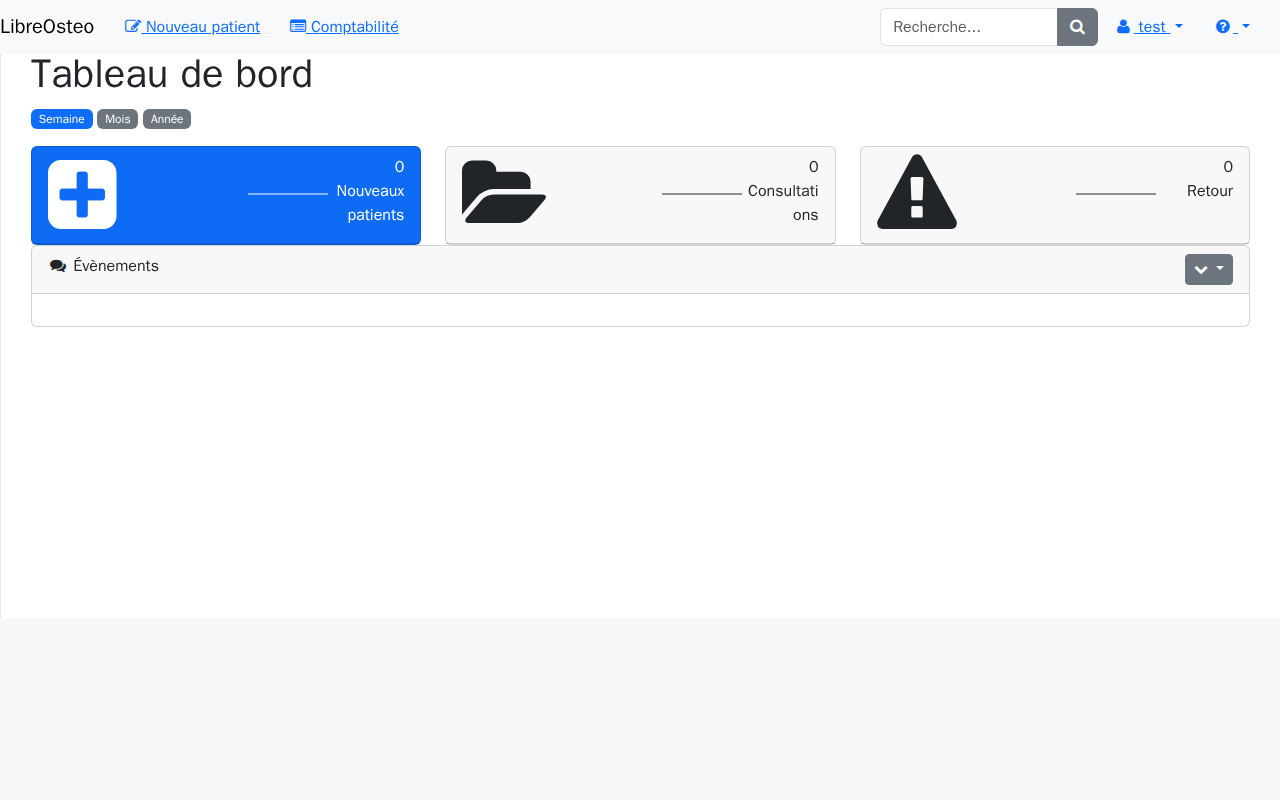
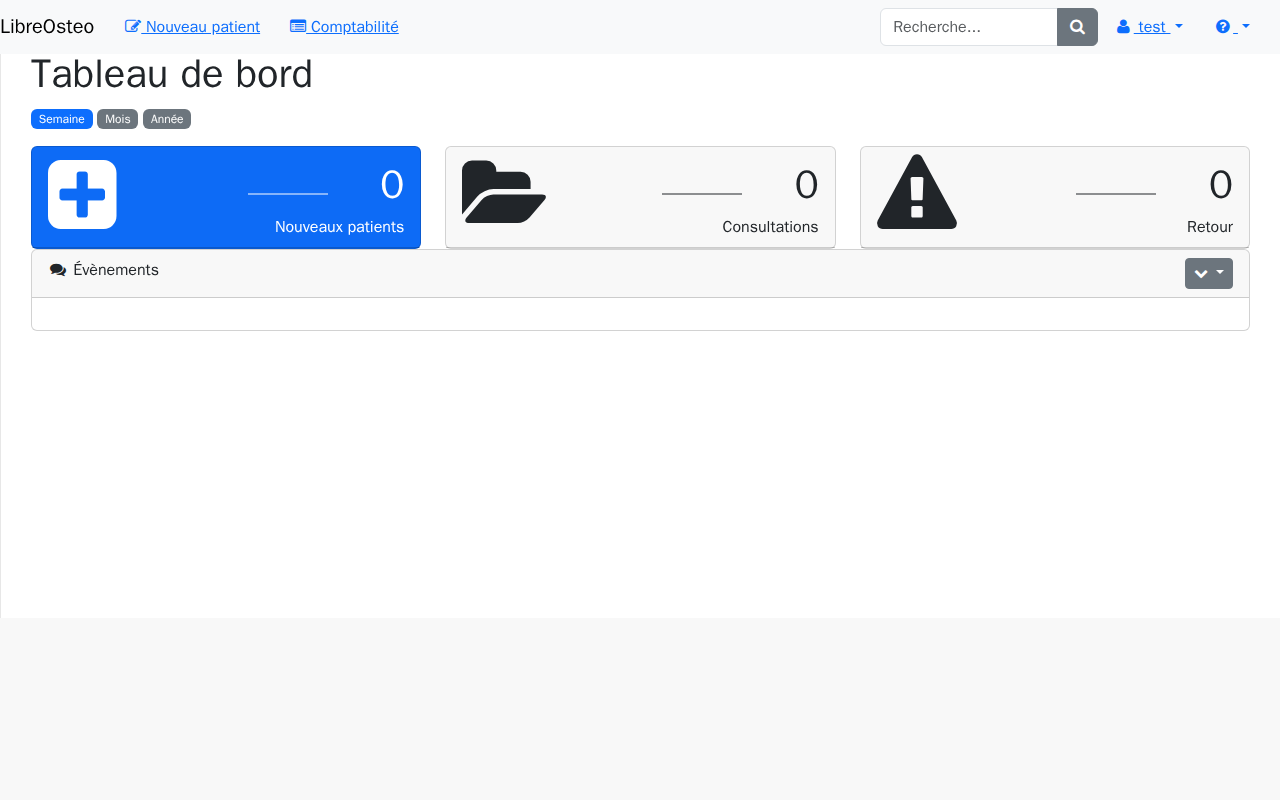
fix: reprendre le style de .huge sur les compteurs du tableau de bord (lot correctif D6g)
Defaut relevait par la revue finale de D6g (deja consigne dans R-VIS-12, "lot correctif
a ouvrir") : la tache 13 (a70ab6b) a retire `class="huge"` des trois compteurs du
tableau de bord sans reprendre son style -- sb-admin-2.css:298 donnait
`.huge { font-size: 40px }`, manquant a l'annexe A du plan qui demande, pour un jeton
sans equivalent, de reprendre le style plutot que de le laisser tomber. Le chiffre
retombait a 16px, le rythme vertical de la tuile s'effondrait et le mini-graphe flottant
chevauchait la ligne du libelle au lieu de celle du chiffre -- les libelles se coupaient
au milieu d'un mot ("Consultati" / "ons" a 1280px).

Style repris sous un nom du produit, `.lo-compteur-tuile` (font-size: 40px), pose sur les
trois compteurs et tenu des deux cotes dans RENOMMAGES_DU_SOCLE
(tests/qualite/test_contrat_styles.py), comme lo-panneau-evenements (T13).

Trappe evitee en recapturant : le premier essai rendait des PNG identiques a l'etat
casse -- l'arbre static/ collecte datait d'avant l'edition du fichier source ("l'arbre
servi ment", CLAUDE.md). `rm -rf static && make static` avant toute mesure engageante,
rejoue et verifie.

Instrument (tests/functional/capture_socle_visuel.py, non modifie) rejoue deux fois,
sommes de controle comparees avant de verser : 31/32 fichiers identiques entre les deux
passes, seul recherche-1280.png a flotte (antialiasing d'un coin arrondi, documente dans
le module, sans rapport avec ce correctif) et sa seconde passe retombe sur le contenu
[…]

Changed region(s): [[0.0312, 0.1875, 0.9688, 0.375], [0.9375, 0.1875, 0.9688, 0.25]]

diff --git a/libreosteoweb/templates/pages/tableau-de-bord.html b/libreosteoweb/templates/pages/tableau-de-bord.html
@@ -63,7 +63,7 @@
                       </svg>
                       {% endfor %}
                     </span>
-                    <div data-testid="compteur-nouveaux-patients" x-text="nouveaux[actif]">{{ semaine.nb_new_patient }}</div>
+                    <div class="lo-compteur-tuile" data-testid="compteur-nouveaux-patients" x-text="nouveaux[actif]">{{ semaine.nb_new_patient }}</div>
                     <div>{% trans 'New patients' %}</div>
                   </div>
                 </div>
@@ -86,7 +86,7 @@
                       </svg>
                       {% endfor %}
                     </span>
-                    <div data-testid="compteur-consultations" x-text="consultations[actif]">{{ semaine.nb_examination }}</div>
+                    <div class="lo-compteur-tuile" data-testid="compteur-consultations" x-text="consultations[actif]">{{ semaine.nb_examination }}</div>
                     <div>{% trans 'Examinations' %}</div>
                   </div>
                 </div>
@@ -109,7 +109,7 @@
                       </svg>
                       {% endfor %}
                     </span>
-                    <div data-testid="compteur-retours-urgents" x-text="retours[actif]">{{ semaine.nb_urgent_return }}</div>
+                    <div class="lo-compteur-tuile" data-testid="compteur-retours-urgents" x-text="retours[actif]">{{ semaine.nb_urgent_return }}</div>
                     <div>{% trans 'Urgent return' %}</div>
                   </div>
                 </div>

diff --git a/libreosteoweb/static/css/libreosteo.css b/libreosteoweb/static/css/libreosteo.css
@@ -343,6 +343,18 @@ pre {
     margin-top: 10%;
     margin-left: 40%;
 }
+
+/* Lot correctif D6g (2026-09-20) : `.huge` (SB Admin, sans equivalent Bootstrap 5,
+   annexe A) devient `lo-compteur-tuile`. T13 avait retire la classe des trois compteurs
+   du tableau de bord sans en reprendre le style (`font-size: 40px`,
+   sb-admin-2.css:298 avant retrait de T16) : le chiffre tombait a 16 px, le rythme
+   vertical s'effondrait et le libelle ne tenait plus sur une ligne a 1280 px, le
+   flottant du mini-graphe chevauchant alors la ligne du libelle au lieu de celle du
+   chiffre. */
+.lo-compteur-tuile
+{
+    font-size: 40px;
+}
 /* D6f, correctif D-6 : le navigateur rogne par defaut ce qui deborde du `viewBox` du
    mini-graphe (`svg { overflow: hidden }`). Les cercles de survol (`r="2"`) sont poses
    sur les bords du `viewBox="0 0 80 20"` : la moitie de leur zone de clic disparaissait,

diff --git a/tests/qualite/test_contrat_styles.py b/tests/qualite/test_contrat_styles.py
@@ -380,6 +380,10 @@ RENOMMAGES_DU_SOCLE: dict[str, tuple[str, ...]] = {
     # equivalent Bootstrap 5 (annexe A), et le seul consommateur de la regle qui annule
     # le defaut de hauteur SB Admin (sb-admin-2.css:213-216).
     "lo-panneau-evenements": ("libreosteoweb/templates/pages/tableau-de-bord.html",),
+    # Lot correctif D6g (2026-09-20) : `huge`, le grand chiffre des trois compteurs du
+    # tableau de bord. Sans equivalent Bootstrap 5 (annexe A), retire par T13 sans que
+    # son style soit repris -- defaut trouve en revue finale (R-VIS-12).
+    "lo-compteur-tuile": ("libreosteoweb/templates/pages/tableau-de-bord.html",),
 }
 
 _TAG_DJANGO = re.compile(r"\{[%{#].*?[%}#]\}", re.S)

diff --git a/docs/recette.md b/docs/recette.md
@@ -4020,9 +4020,13 @@ opposable ; un écart se corrige, il ne s'absorbe pas.
    fond ni bordure propres, la page s'allonge d'autant, et **Déconnexion** s'atteint en
    faisant défiler la page. Aucune entrée n'est masquée derrière un bord.
 
-**Ne couvre pas** : le contenu du tableau de bord (R-VIS-12), qui n'est **pas** migré à ce
-stade — ses tuiles colorées et son panneau d'évènements se rendent sans mise en forme entre
-D6g T4 et D6g T13, et c'est attendu. Ni la modale, la notification, les
+**Ne couvre pas** : le détail du contenu du tableau de bord — ses tuiles et son panneau
+d'évènements, visibles sur cette même capture puisque c'est la même page, mais dont le
+rendu se recette en détail sur sa propre fiche, R-VIS-12. **Précision à la clôture de D6g
+(2026-09-20)** : cette fiche a longtemps dit ce contenu « pas migré à ce stade » (vrai entre
+D6g T4 et D6g T13) ; il l'est depuis T13, et le lot correctif du même jour referme le seul
+défaut visuel qu'il portait encore (libellés des tuiles coupés, R-VIS-12). Ni la modale, la
+notification, les
 onglets et l'encart de visite guidée, qui appartiennent au même socle mais se recettent sur
 les écrans qui les émettent.
 
@@ -4441,7 +4445,10 @@ et `tableau-de-bord-375.png`.
    clair, même disposition icône-gauche / chiffre-et-libellé-à-droite, pour *Consultations*
    et *Retour*. **L'icône de chaque tuile ne recouvre à aucun moment le chiffre ni le
    libellé qui lui font face** — c'est le défaut corrigé par cette tâche (`col-xs-3` /
-   `col-xs-9`, morts depuis Bootstrap 4, recouvraient le dernier sommet du mini-graphe).
+   `col-xs-9`, morts depuis Bootstrap 4, recouvraient le dernier sommet du mini-graphe). Le
+   chiffre de chaque tuile est rendu à 40 px (`lo-compteur-tuile`, lot correctif D6g,
+   2026-09-20) et le libellé qui le suit — *Nouveaux patients*, *Consultations*, *Retour* —
+   tient entièrement sur **une seule ligne**, sans coupure au milieu d'un mot.
    Sous les tuiles, un panneau **Évènements** : en-tête gris avec une icône de bulles, le
    mot *Évènements*, et à droite un bouton à chevron ; le corps est une zone blanche —
    vide si aucun évènement n'a eu lieu ce jour, ou listant chaque entrée sans puce ni
@@ -4450,30 +4457,33 @@ et `tableau-de-bord-375.png`.
 2. Ramener la fenêtre à **375 px de large**.
    Attendu : les trois tuiles s'empilent en pleine largeur, **dans le même ordre**, et
    chacune garde sa disposition interne icône-à-gauche / chiffre-et-libellé-à-droite sans
-   chevauchement. Les trois pastilles de période restent sur une seule ligne. Le panneau
-   **Évènements** occupe toute la largeur sous les tuiles, toujours lisible, sans texte
-   coupé. Aucune barre de défilement horizontale.
+   chevauchement, son libellé tenant sur une seule ligne. Les trois pastilles de période
+   restent sur une seule ligne. Le panneau **Évènements** occupe toute la largeur sous les
+   tuiles, toujours lisible, sans texte coupé. Aucune barre de défilement horizontale.
 
-**⚠ Défaut relevé à la passe de clôture de D6g (2026-09-20), non corrigé — destinataire :
-lot correctif à ouvrir.** Sur les deux captures de référence, **les libellés des tuiles sont
-coupés au milieu d'un mot**. À 1 280 px : *Nouveaux* / *patients* sur deux lignes (coupure
-propre, entre deux mots) mais *Consultati* / *ons* sur deux lignes, **au milieu du mot**. À
-375 px, les deux le sont : *Nouvea* / *ux patients* et *Consult* / *ations*. Avant la
-bascule, les trois libellés tenaient chacun sur une seule ligne aux deux largeurs (capture
-d'avant versée par D6g T1, `3f72c2d`).
+**⚠ Défaut relevé à la passe de clôture de D6g (2026-09-20), corrigé par le lot correctif
+du même jour.** Sur les deux captures de référence d'alors, **les libellés des tuiles
+étaient coupés au milieu d'un mot** : à 1 280 px, *Consultati* / *ons* ; à 375 px, *Nouvea*
+/ *ux patients* et *Consult* / *ations*.
 
-Cause mesurée : T13 (`a70ab6b`) a retiré `class="huge"` des trois compteurs sans reprendre
-son style — `sb-admin-2.css:298` donnait `.huge { font-size: 40px }`, manquant à l'annexe A
-qui demande, pour un jeton « — », de reprendre le style plutôt que de le laisser tomber. Le
-chiffre est retombé à la taille de base — 16 px, elle-même montée depuis 14 px sous
-Bootstrap 3 —, le rythme vertical de la tuile s'est effondré, et le mini-graphe flottant
+Cause mesurée : T13 (`a70ab6b`) avait retiré `class="huge"` des trois compteurs sans
+reprendre son style — `sb-admin-2.css:298` donnait `.huge { font-size: 40px }`, manquant à
+l'annexe A qui demande, pour un jeton « — », de reprendre le style plutôt que de le laisser
+tomber. Le chiffre était retombé à la taille de base (16 px, mesuré) ; le rythme vertical de
+la tuile s'était effondré, et le mini-graphe flottant
 (`.dashboard-sparkline { float: left; margin-top: 10%; margin-left: 40% }`, `libreosteo.css`)
-chevauche désormais la ligne du **libellé** au lieu de celle du chiffre, qu'il dépassait sans
-la toucher quand ce dernier faisait 40 px. Ce n'est **pas** un défaut de la tuile elle-même :
-les trois tuiles restent côte à côte, l'icône ne recouvre rien, le chiffre reste lisible —
-tous les attendus de l'étape 1 tiennent. **Constater ce défaut n'est donc pas un motif de
-rejet de cette fiche** ; le corriger demande de reprendre le style de `.huge` sur les
-compteurs, qui n'appartient à aucune tâche de D6g.
+chevauchait la ligne du **libellé** au lieu de celle du chiffre, qu'il dépassait sans la
+toucher quand ce dernier faisait 40 px. Ce n'était **pas** un défaut de la tuile elle-même :
+les trois tuiles restaient côte à côte, l'icône ne recouvrait rien, le chiffre restait
+lisible — tous les attendus de l'étape 1 tenaient déjà, et ce constat n'était pas un motif de
+rejet de la fiche.
+
+**Correctif** : le style de `.huge` repris sous `.lo-compteur-tuile` (`libreosteo.css`,
+`font-size: 40px`), posée sur les trois compteurs (`RENOMMAGES_DU_SOCLE`,
+`tests/qualite/test_contrat_styles.py`) à la place de la classe SB Admin retirée. Mesuré
+après correctif (les trois compteurs, aux deux largeurs) : `font-size` 40 px, libellé sur
+une seule ligne, hauteur 24 px, sans chevauchement avec le mini-graphe. Les deux captures de
+référence sont reprises en conséquence.
 
 **Ne couvre pas** : l'atteignabilité de chaque sommet du mini-graphe au survol — prouvée par
 `test_chaque_sommet_du_mini_graphe_est_atteignable_au_survol` (`elementFromPoint`), pas par
